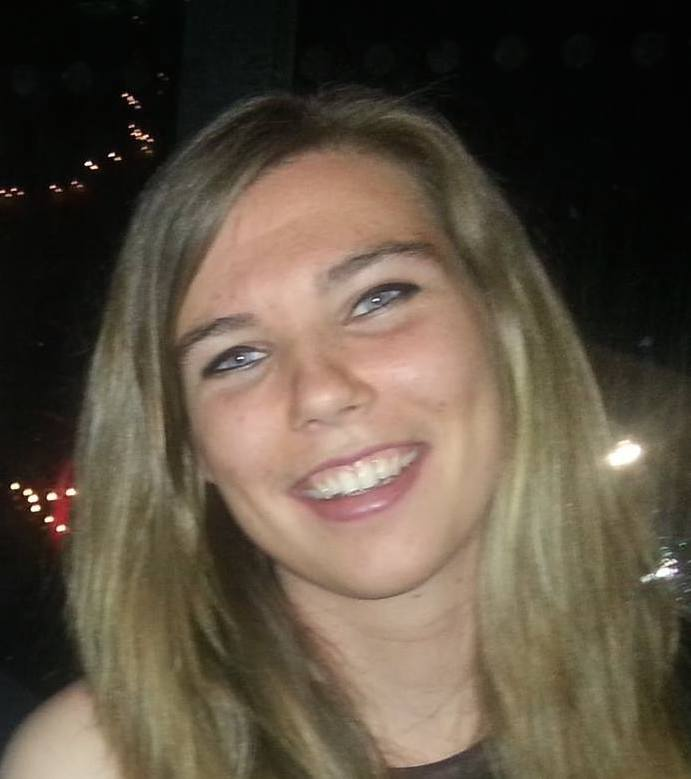
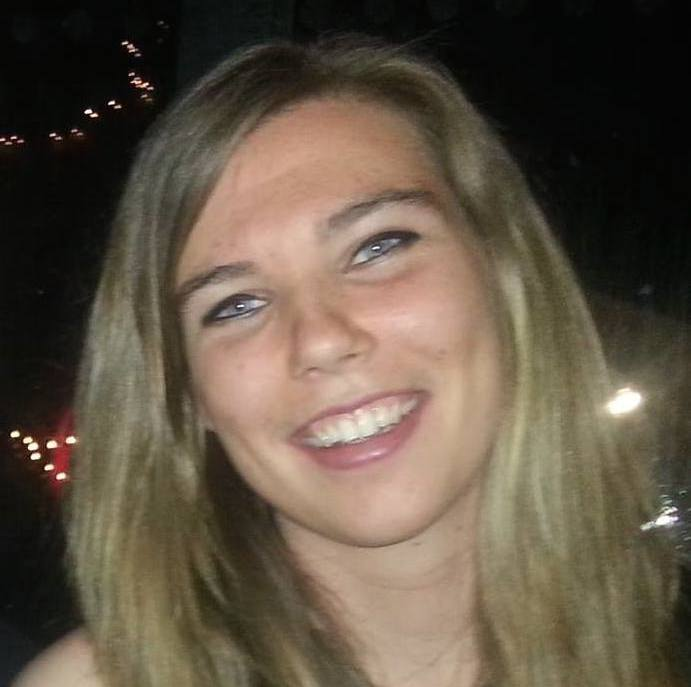
Caroline Added

diff --git a/index.html b/index.html
@@ -214,10 +214,10 @@
 		<div class="row centered">
 			<br><br>
 			<div class="col-lg-4">
-				<img class="img-circle" src="assets/img/pic4.jpg" width="110" height="110" alt="">
+				<img class="img-circle" src="assets/img/caroline.png" width="110" height="110" alt="">
 				<h4><a href="mailto:caroline.heisig@st-hildas.ox.ac.uk">Caroline Heisig</a></h4>
 				<h3>Captain of Coxes</h3>
-				<p>There are many variations of passages of Lorem Ipsum available, but the majority have suffered alteration in some form.</p>
+				<p>I’m a second year who joined SHCBC in the summer of my first year. I enjoy the challenge of steering and motivating rowers to victory! The cox is an essential element in the boat, so my role is to ensure good organisation, training and recruitment of coxes.</p>
 				<p></p>
 			</div>
 			
@@ -266,7 +266,7 @@
 				<img class="img-circle" src="assets/img/abi.jpg" width="110" height="110" alt="">
 				<h4><a href="mailto:abigail.willett@st-hildas.ox.ac.uk">Abi Willett</a></h4>
 				<h3>Social Secretary</h3>
-				<p>Hi I'm Abi, and I'm super keen about all things rowing related. I'll be womens social sec this year, so I'll make sure there is lots of fun! As you probably know, I love crew dates so expect a lot of pennying and sconces this season...</p>
+				<p>Hi, I'm Abi, and I'm super keen about all things rowing related. I'll be womens social sec this year, so I'll make sure there is lots of fun! As you probably know, I love crew dates so expect a lot of pennying and sconces this season...</p>
 				<p></p>
 				
 		
